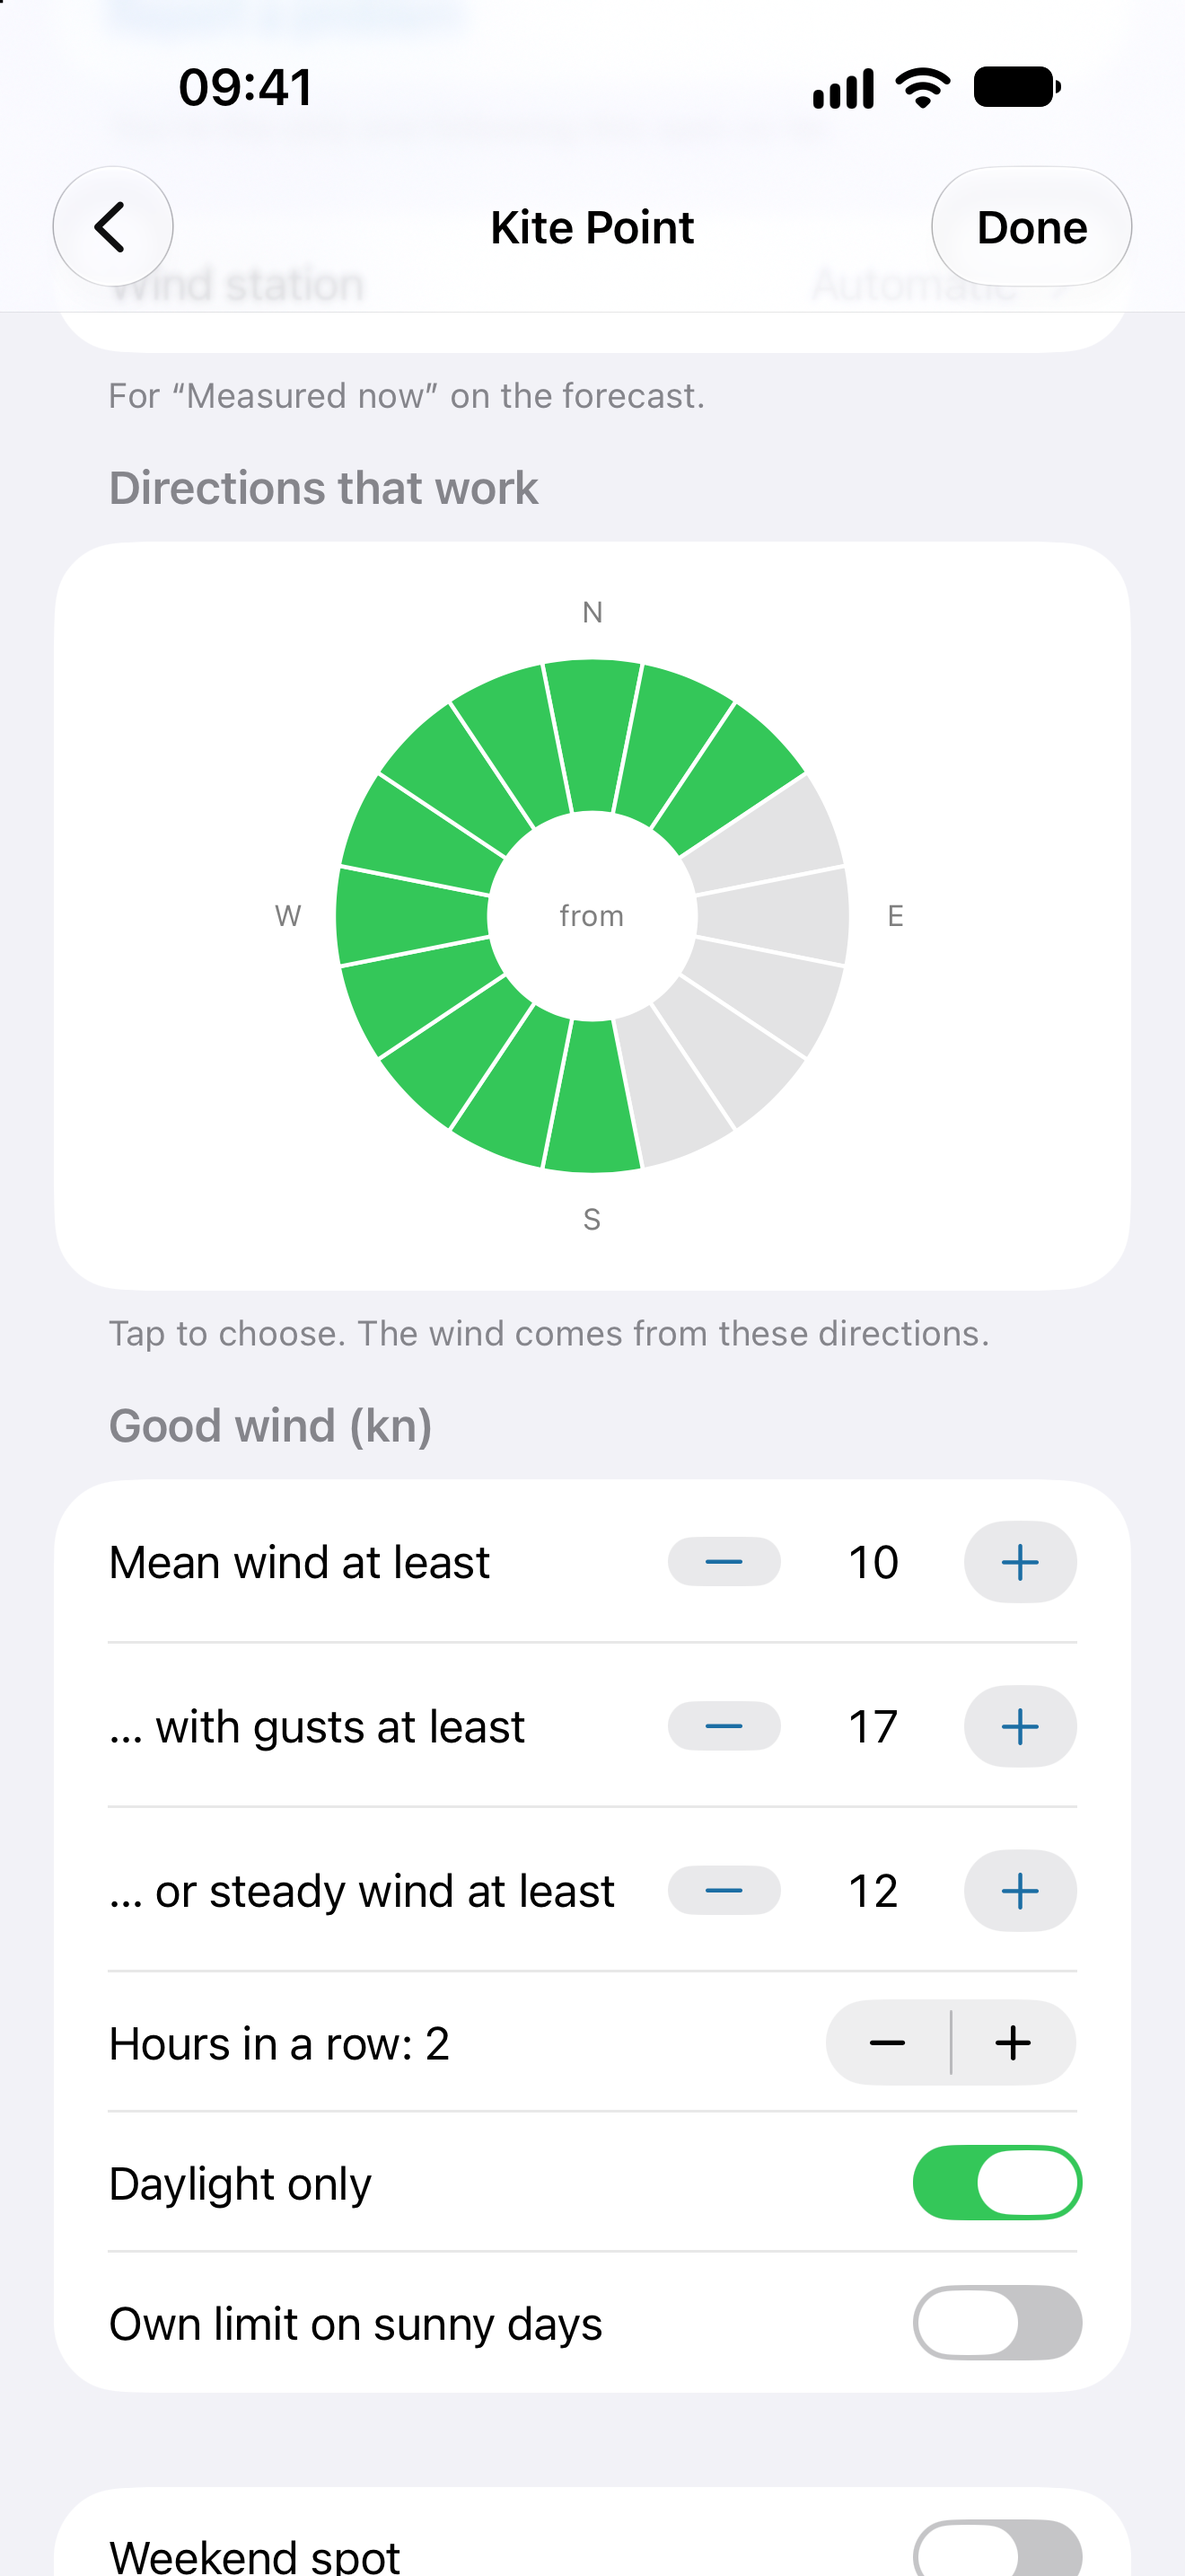
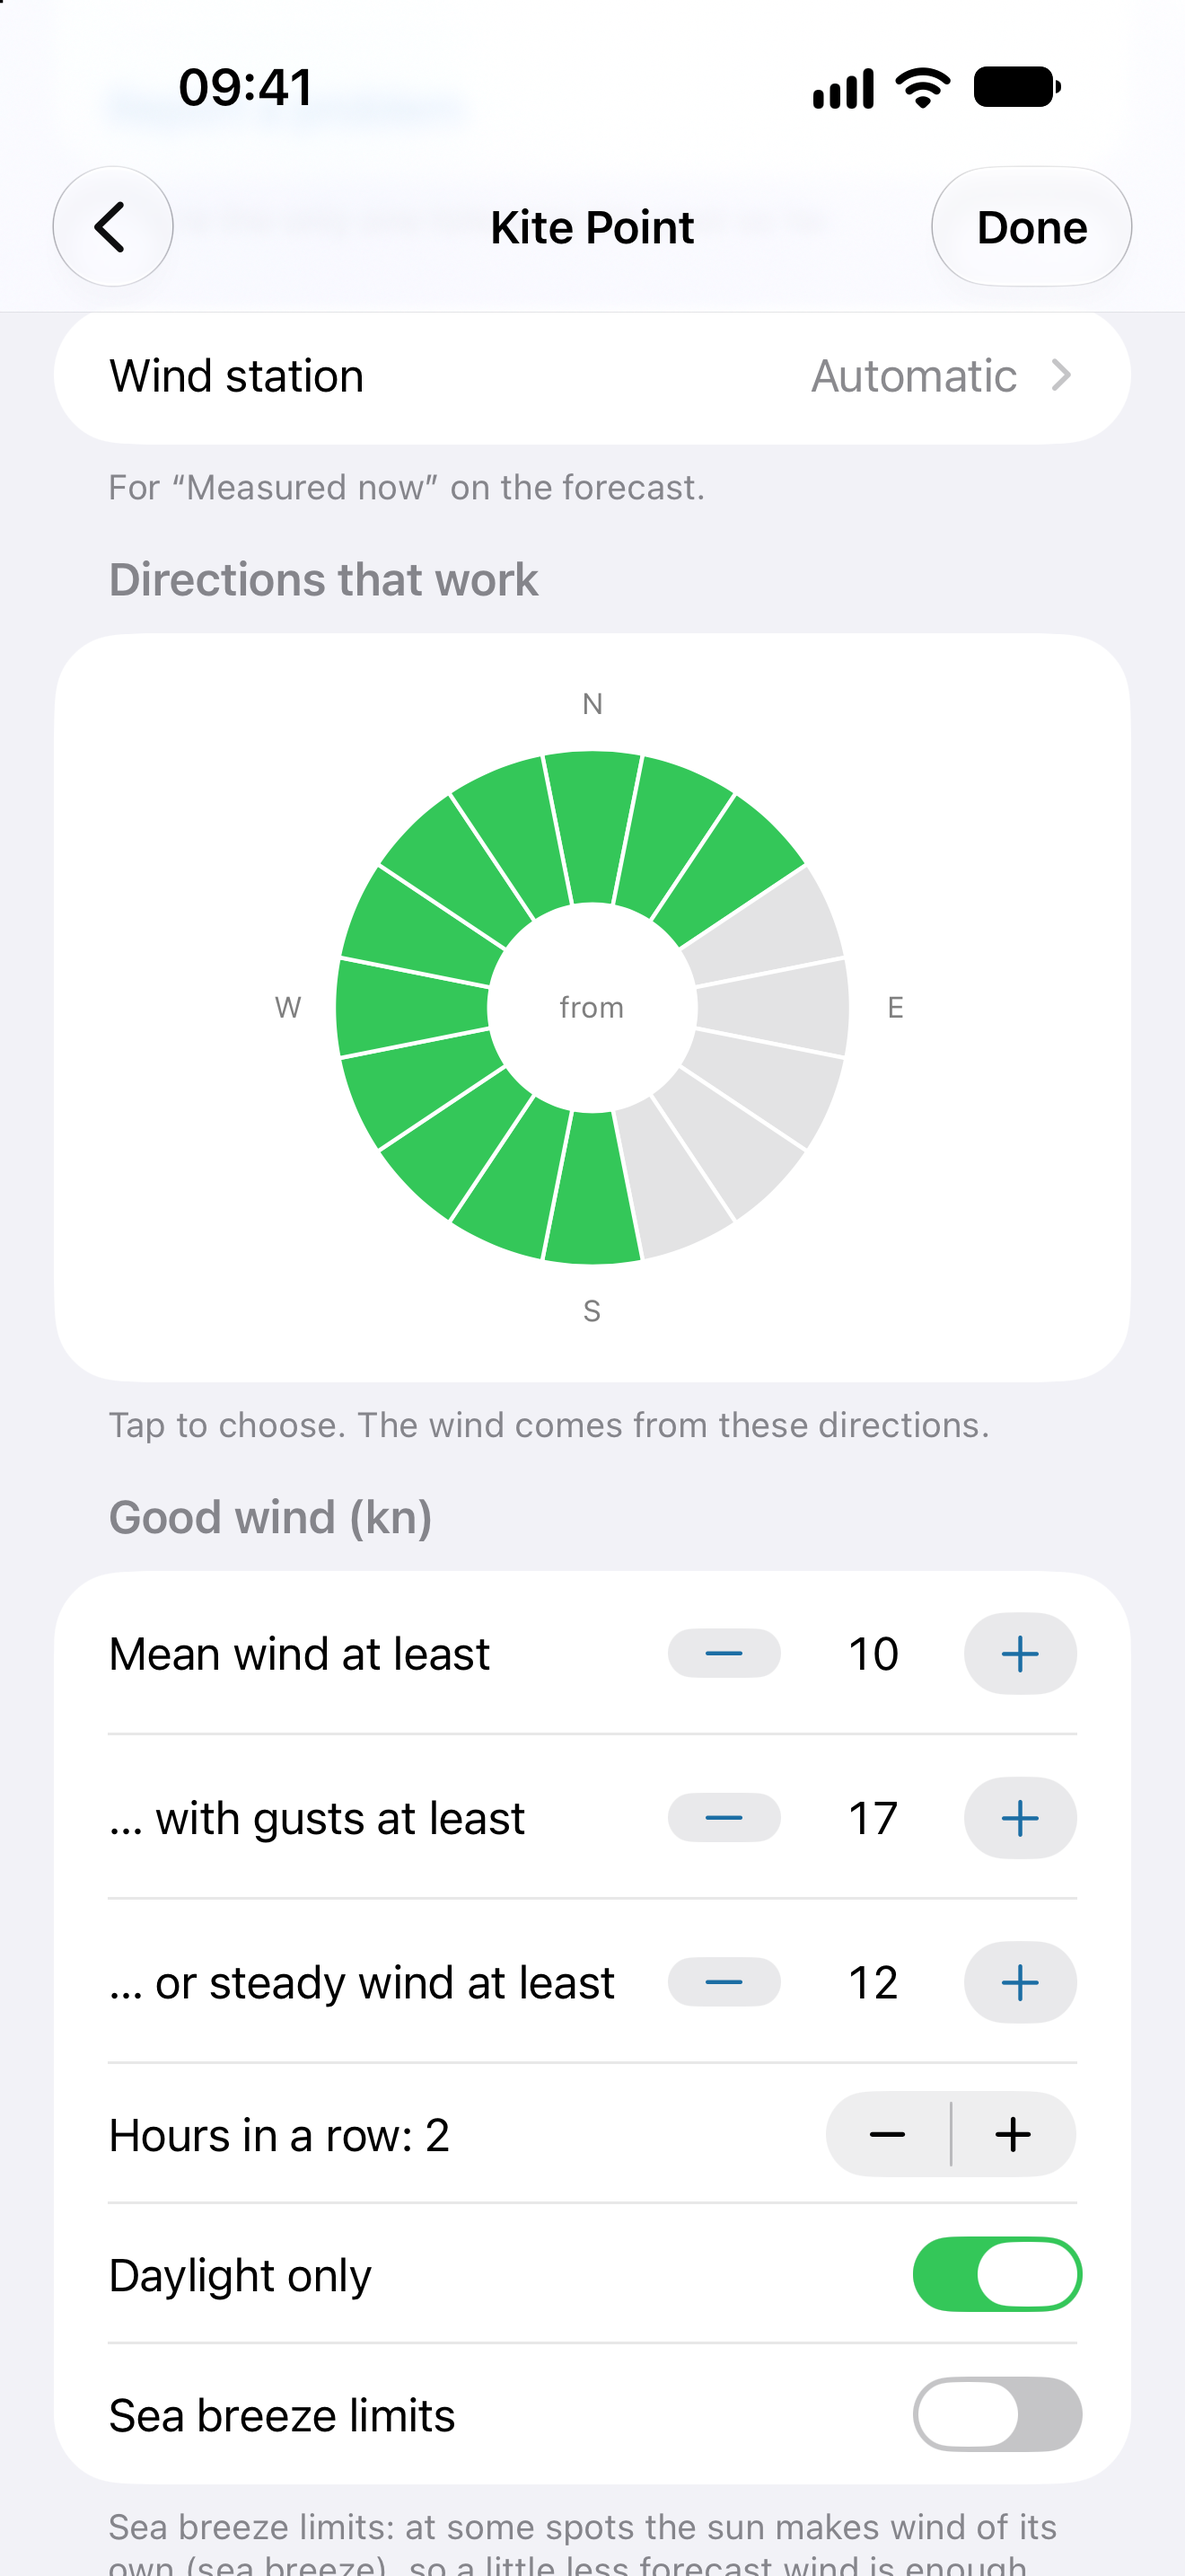
App Store screenshots: framed versions with captions (appstore/frame.swift); rules screenshot retaken with 'Sea breeze limits'

diff --git a/appstore/frame.swift b/appstore/frame.swift
@@ -1,0 +1,98 @@
+// Puts the App Store screenshots in a phone frame on navy, with a caption above. Run from the repo root:
+//   swift appstore/frame.swift
+// Reads appstore/screenshots/*.png (plain Simulator screenshots, 6.9-inch: 1320 × 2868) and writes the
+// framed versions, the same size, to appstore/framed/. Captions are the ones in appstore/listing-en.md.
+
+import AppKit
+import CoreText
+import Foundation
+
+let captions: [(file: String, caption: String)] = [
+    ("1-list", "Know when your spots are good"),
+    ("2-notification", "Get told when it's on"),
+    ("3-forecast", "See why, hour by hour"),
+    ("4-rules", "Your spot, your rules"),
+    ("5-add-spot", "Popular spots, or any spot in the world"),
+]
+
+let width = 1320, height = 2868
+let navy = CGColor(red: 0x0E / 255, green: 0x2A / 255, blue: 0x3B / 255, alpha: 1)
+let navyLight = CGColor(red: 0x1C / 255, green: 0x4A / 255, blue: 0x66 / 255, alpha: 1)
+let white = CGColor(red: 1, green: 1, blue: 1, alpha: 1)
+let bezel = CGColor(red: 0.02, green: 0.03, blue: 0.04, alpha: 1)
+
+func archivo(size: CGFloat) -> CTFont {
+    let url = URL(fileURLWithPath: "brand/fonts/Archivo[wdth,wght].ttf")
+    guard let descriptors = CTFontManagerCreateFontDescriptorsFromURL(url as CFURL) as? [CTFontDescriptor],
+          let base = descriptors.first else { fatalError("Can't read \(url.path)") }
+    func tag(_ s: String) -> Int { s.utf8.reduce(0) { $0 << 8 | Int($1) } }
+    let variation = [tag("wght"): 800, tag("wdth"): 100] as CFDictionary
+    let descriptor = CTFontDescriptorCreateCopyWithAttributes(base, [kCTFontVariationAttribute: variation] as CFDictionary)
+    return CTFontCreateWithFontDescriptor(descriptor, size, nil)
+}
+
+// The phone: the screenshot at 76 %, in a thin dark bezel with the iPhone's rounded corners.
+let scale: CGFloat = 0.76
+let screen = CGSize(width: CGFloat(width) * scale, height: CGFloat(height) * scale)
+let border: CGFloat = 20
+let screenRadius: CGFloat = 186 * scale
+let phoneTop: CGFloat = 560   // from the top; the caption sits in the space above
+
+func frame(_ name: String, _ caption: String) throws {
+    let input = URL(fileURLWithPath: "appstore/screenshots/\(name).png")
+    guard let source = CGImageSourceCreateWithURL(input as CFURL, nil),
+          let shot = CGImageSourceCreateImageAtIndex(source, 0, nil) else { fatalError("Can't read \(input.path)") }
+    guard shot.width == width, shot.height == height else {
+        fatalError("\(name).png is \(shot.width) × \(shot.height), expected \(width) × \(height)")
+    }
+    let cs = CGColorSpace(name: CGColorSpace.sRGB)!
+    let ctx = CGContext(data: nil, width: width, height: height, bitsPerComponent: 8, bytesPerRow: 0, space: cs,
+                        bitmapInfo: CGImageAlphaInfo.noneSkipLast.rawValue)!
+    let H = CGFloat(height), W = CGFloat(width)
+
+    // Background: navy, a little lighter towards the bottom.
+    let gradient = CGGradient(colorsSpace: cs, colors: [navy, navyLight] as CFArray, locations: [0, 1])!
+    ctx.drawLinearGradient(gradient, start: CGPoint(x: 0, y: H), end: CGPoint(x: 0, y: 0), options: [])
+
+    // Caption: centred, wrapped, in the space above the phone.
+    var centred = CTTextAlignment.center
+    let style = withUnsafeBytes(of: &centred) { bytes in
+        CTParagraphStyleCreate([CTParagraphStyleSetting(spec: .alignment, valueSize: bytes.count,
+                                                        value: bytes.baseAddress!)], 1)
+    }
+    let text = NSAttributedString(string: caption, attributes: [
+        NSAttributedString.Key(kCTFontAttributeName as String): archivo(size: 104),
+        NSAttributedString.Key(kCTForegroundColorAttributeName as String): white,
+        NSAttributedString.Key(kCTParagraphStyleAttributeName as String): style])
+    let setter = CTFramesetterCreateWithAttributedString(text)
+    let textWidth: CGFloat = 1120
+    let fit = CTFramesetterSuggestFrameSizeWithConstraints(setter, CFRange(), nil, CGSize(width: textWidth, height: 1000), nil)
+    let textTop = (phoneTop - fit.height) / 2 + 10
+    let textRect = CGRect(x: (W - textWidth) / 2, y: H - textTop - fit.height, width: textWidth, height: ceil(fit.height))
+    CTFrameDraw(CTFramesetterCreateFrame(setter, CFRange(), CGPath(rect: textRect, transform: nil), nil), ctx)
+
+    // Phone: shadow, bezel, then the screenshot clipped to the screen's corners.
+    let screenRect = CGRect(x: (W - screen.width) / 2, y: H - phoneTop - border - screen.height,
+                            width: screen.width, height: screen.height)
+    let bodyRect = screenRect.insetBy(dx: -border, dy: -border)
+    let body = CGPath(roundedRect: bodyRect, cornerWidth: screenRadius + border, cornerHeight: screenRadius + border, transform: nil)
+    ctx.saveGState()
+    ctx.setShadow(offset: CGSize(width: 0, height: -24), blur: 80, color: CGColor(red: 0, green: 0, blue: 0, alpha: 0.45))
+    ctx.addPath(body); ctx.setFillColor(bezel); ctx.fillPath()
+    ctx.restoreGState()
+    ctx.saveGState()
+    ctx.addPath(CGPath(roundedRect: screenRect, cornerWidth: screenRadius, cornerHeight: screenRadius, transform: nil))
+    ctx.clip()
+    ctx.interpolationQuality = .high
+    ctx.draw(shot, in: screenRect)
+    ctx.restoreGState()
+
+    let output = URL(fileURLWithPath: "appstore/framed/\(name).png")
+    let dest = CGImageDestinationCreateWithURL(output as CFURL, "public.png" as CFString, 1, nil)!
+    CGImageDestinationAddImage(dest, ctx.makeImage()!, nil)
+    guard CGImageDestinationFinalize(dest) else { fatalError("Can't write \(output.path)") }
+    print("wrote \(output.path)")
+}
+
+try FileManager.default.createDirectory(atPath: "appstore/framed", withIntermediateDirectories: true)
+for (file, caption) in captions { try frame(file, caption) }
